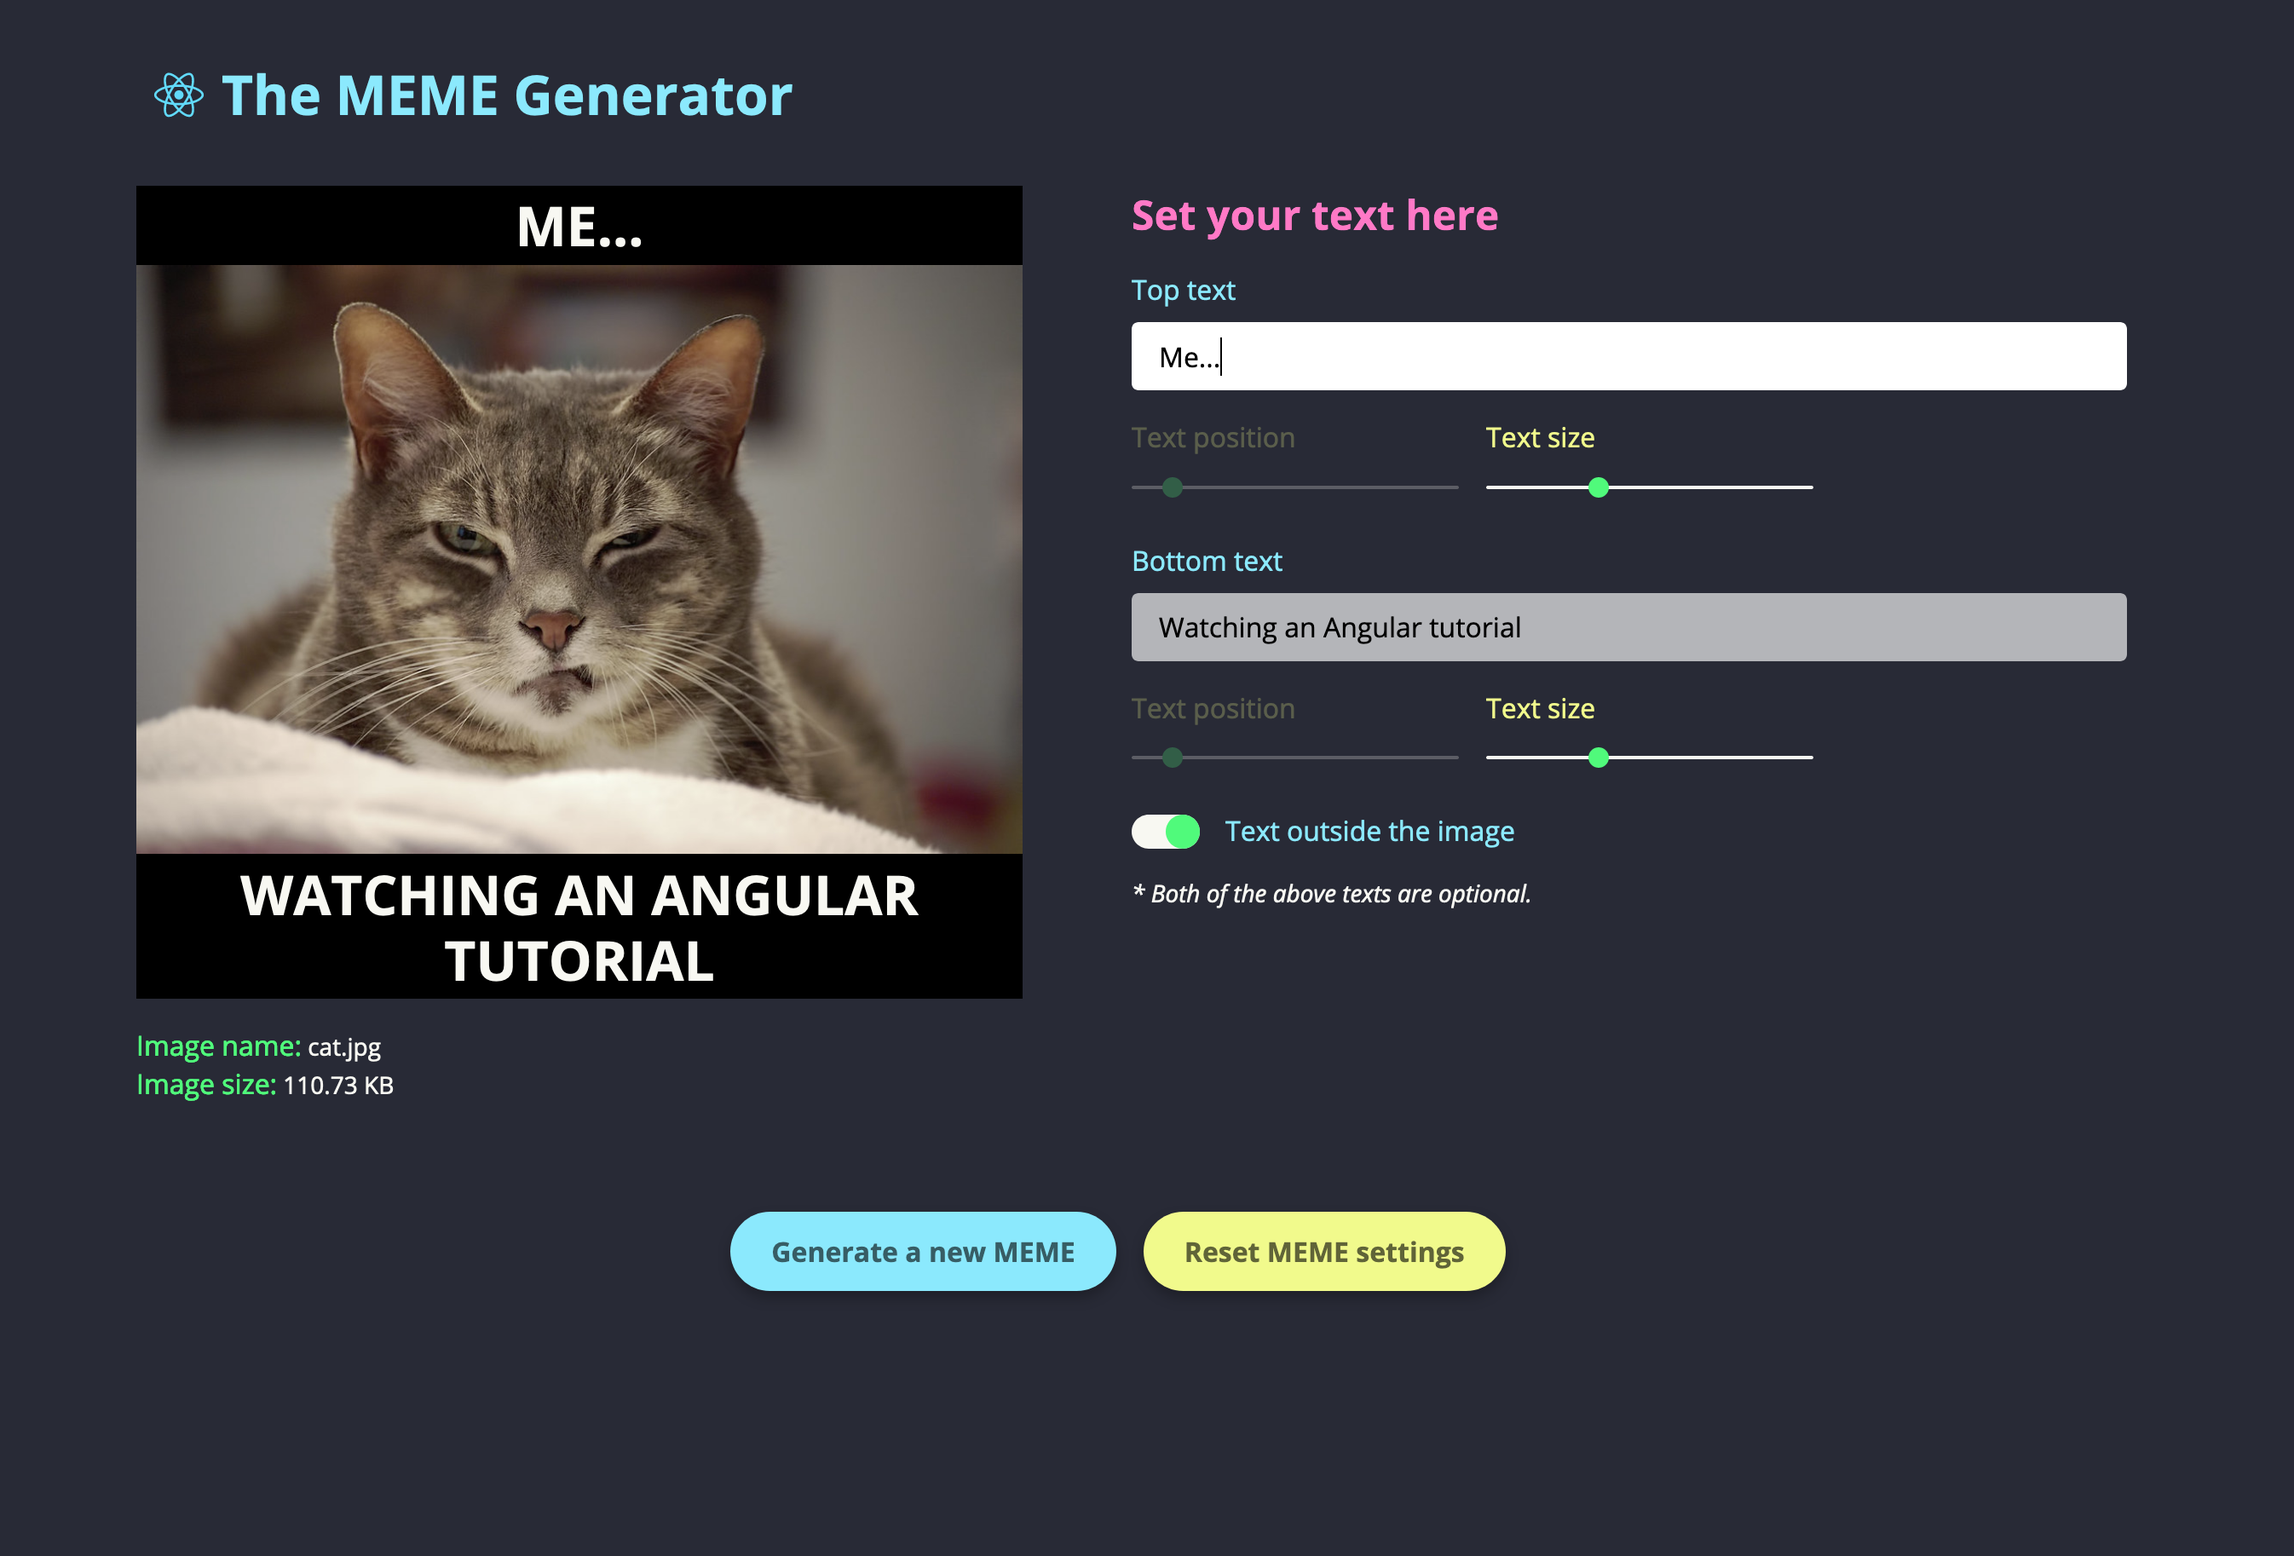
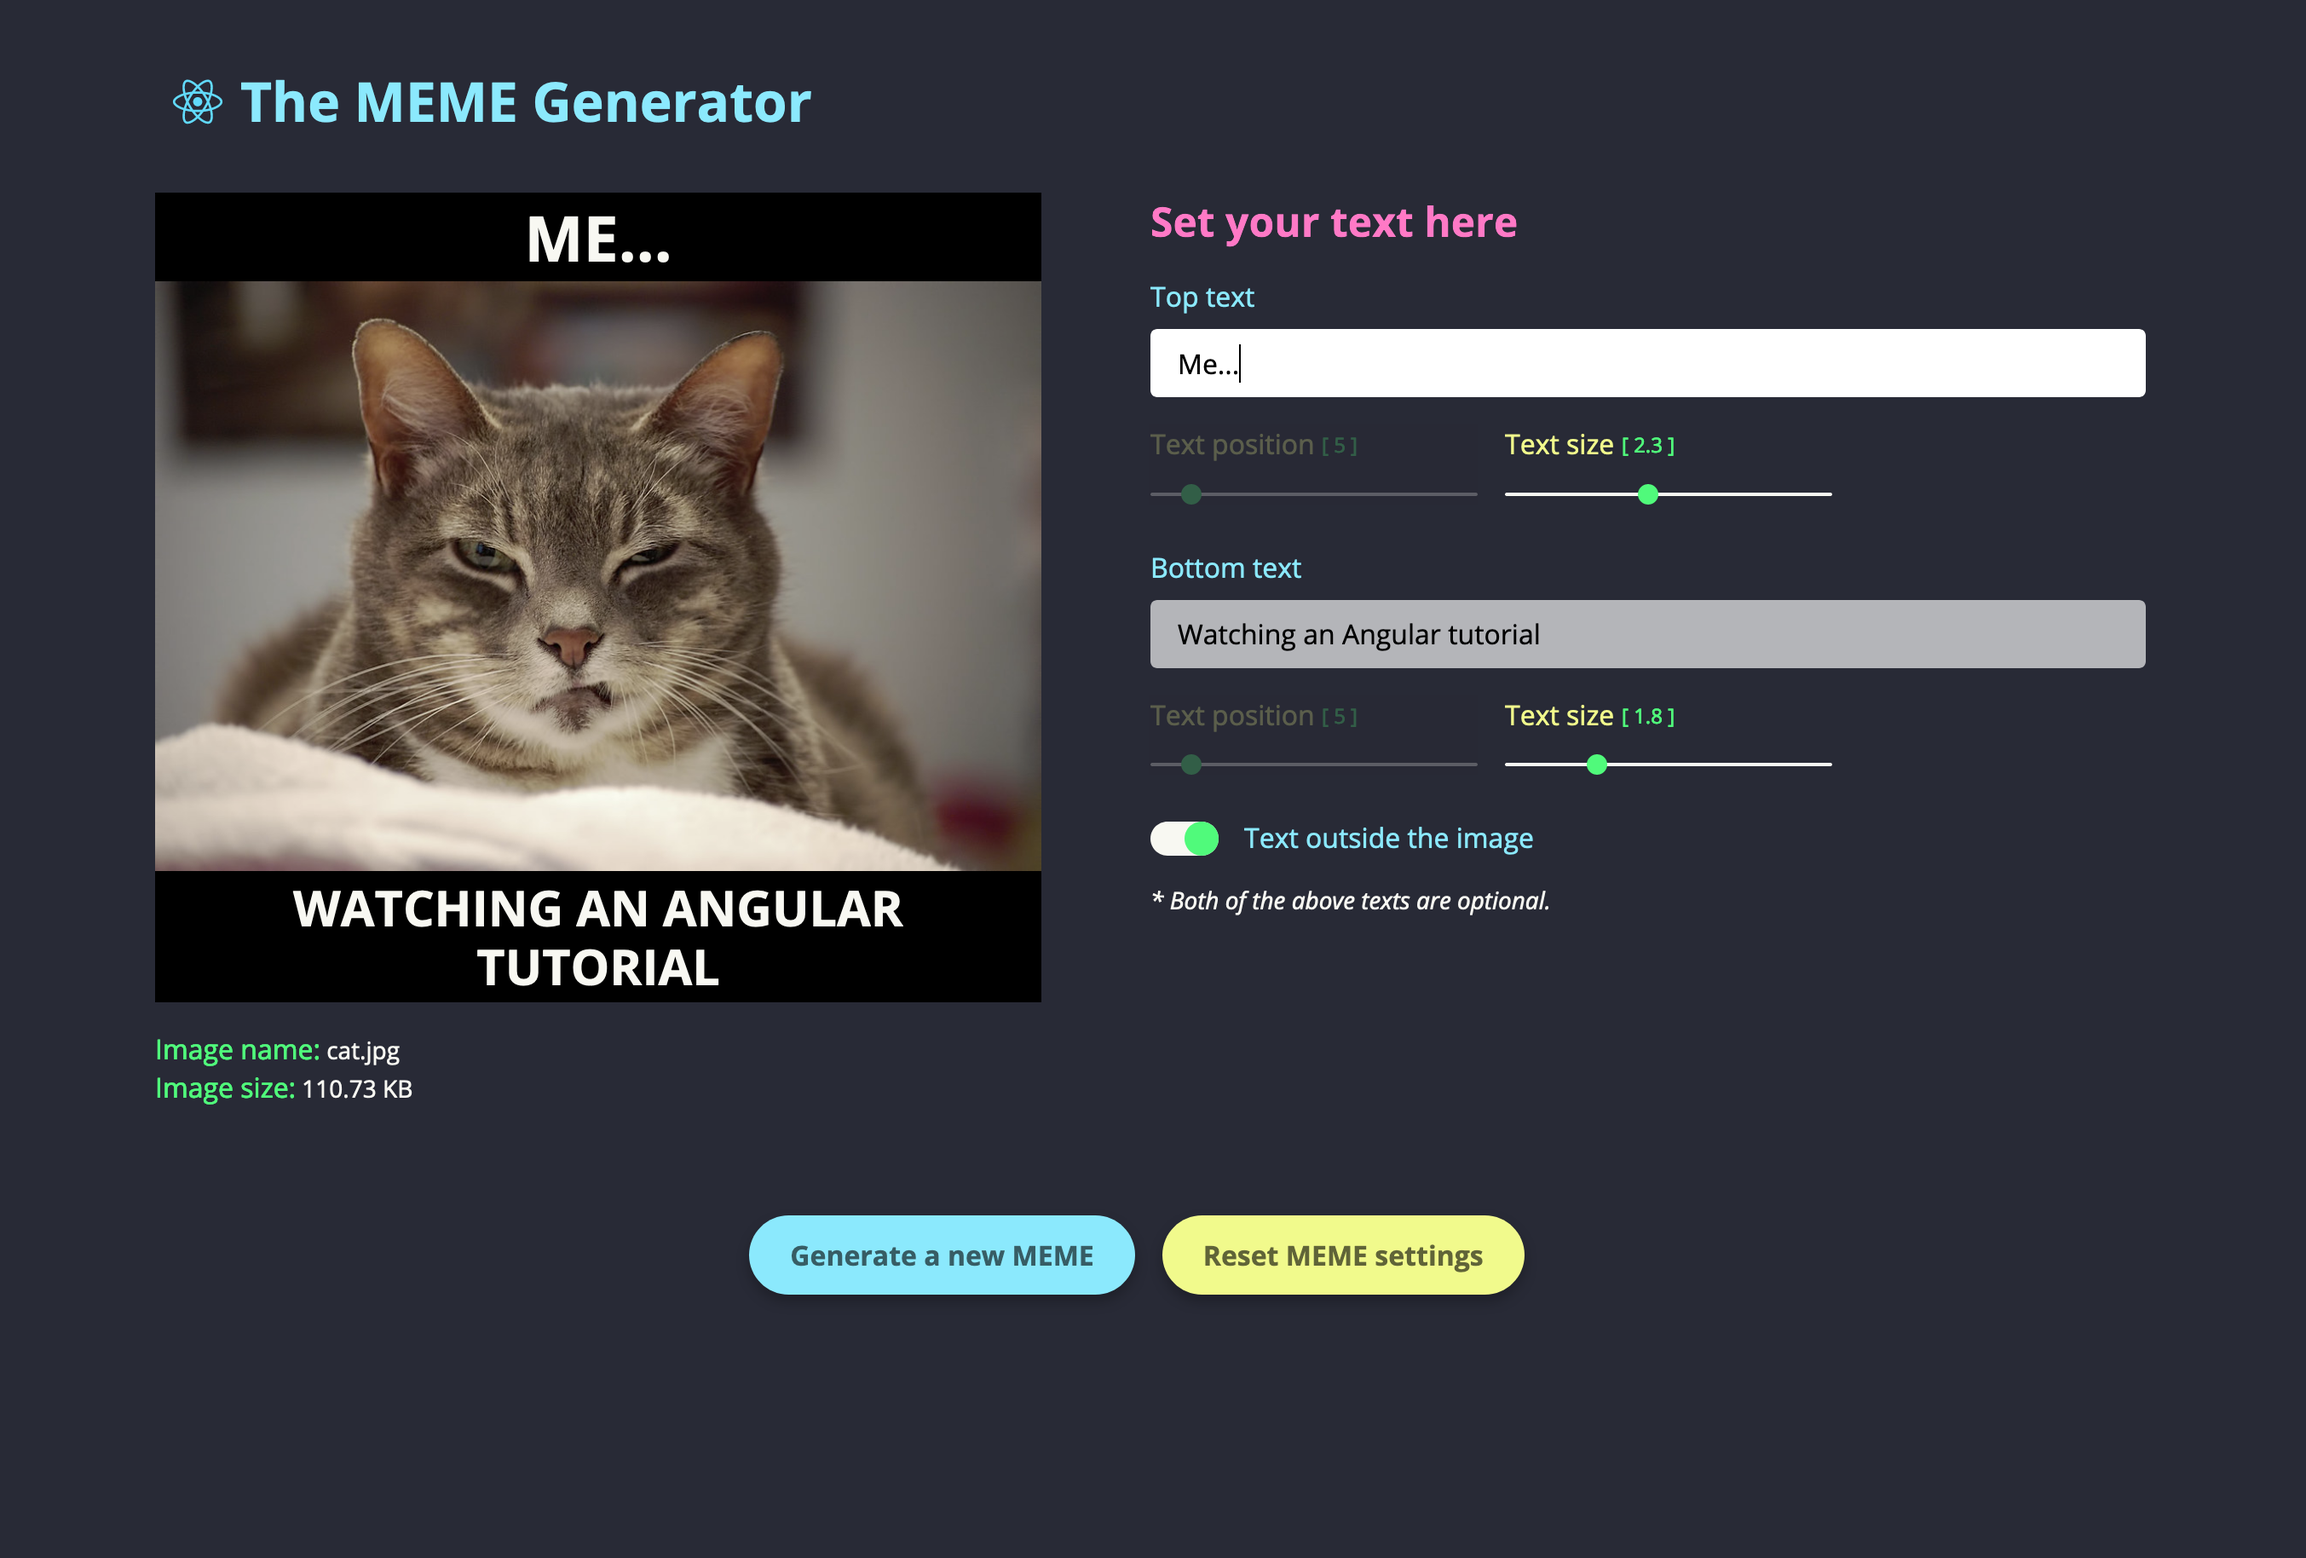
add: text settings values on UI. Closes #17

Changed region(s): [[0.0624, 0.0312, 0.9361, 0.718], [0.312, 0.7804, 0.6865, 0.8428], [0.4993, 0.1249, 0.6553, 0.1561]]

diff --git a/src/components/App/TextImage/index.js b/src/components/App/TextImage/index.js
@@ -72,7 +72,9 @@ const TextImage = () => {
 
             <WrapInput flex>
                 <div className={meme.state.textOutside ? 'inactive' : ''}>
-                    <Label htmlFor="pos-top">Text position</Label>
+                    <Label htmlFor="pos-top">
+                        Text position <span>[ {meme.state.topTextPos} ]</span>
+                    </Label>
                     <Range
                         id="pos-top"
                         min="0"
@@ -85,7 +87,9 @@ const TextImage = () => {
                     />
                 </div>
                 <div>
-                    <Label htmlFor="size-top">Text size</Label>
+                    <Label htmlFor="size-top">
+                        Text size <span>[ {meme.state.topTextSize} ]</span>
+                    </Label>
                     <Range
                         id="size-top"
                         min="1"
@@ -114,7 +118,10 @@ const TextImage = () => {
 
             <WrapInput flex>
                 <div className={meme.state.textOutside ? 'inactive' : ''}>
-                    <Label htmlFor="pos-bottom">Text position</Label>
+                    <Label htmlFor="pos-bottom">
+                        Text position{' '}
+                        <span>[ {meme.state.bottomTextPos} ]</span>
+                    </Label>
                     <Range
                         id="pos-bottom"
                         min="0"
@@ -127,7 +134,9 @@ const TextImage = () => {
                     />
                 </div>
                 <div>
-                    <Label htmlFor="size-bottom">Text size</Label>
+                    <Label htmlFor="size-bottom">
+                        Text size <span>[ {meme.state.bottomTextSize} ]</span>
+                    </Label>
                     <Range
                         id="size-bottom"
                         min="1"

diff --git a/src/components/global/form/Label.js b/src/components/global/form/Label.js
@@ -7,6 +7,12 @@ const Label = styled.label`
         props.primary
             ? props.theme.colors.primary
             : props.theme.colors.default};
+    span {
+        display: inline-block;
+        transform: translateY(-1px);
+        font-size: 0.75em;
+        color: ${({ theme }) => theme.colors.quaternary};
+    }
 `;
 
 export default Label;

diff --git a/README.md b/README.md
@@ -1,6 +1,6 @@
 # React Meme Generator
 
-![Version](https://img.shields.io/badge/version-1.0.3-success)
+![Version](https://img.shields.io/badge/version-1.0.4-success)
 
 ![App Screen](./src/assets/app-screen.png)
 
